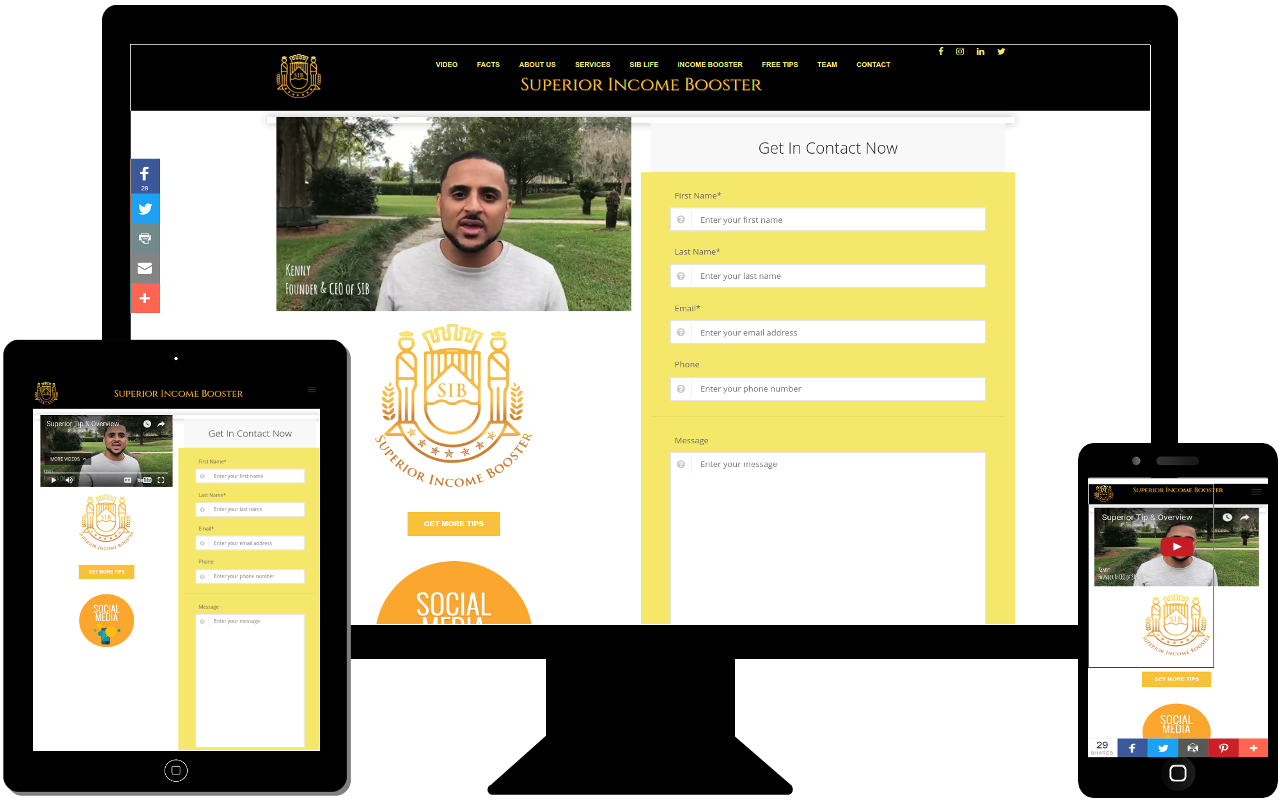
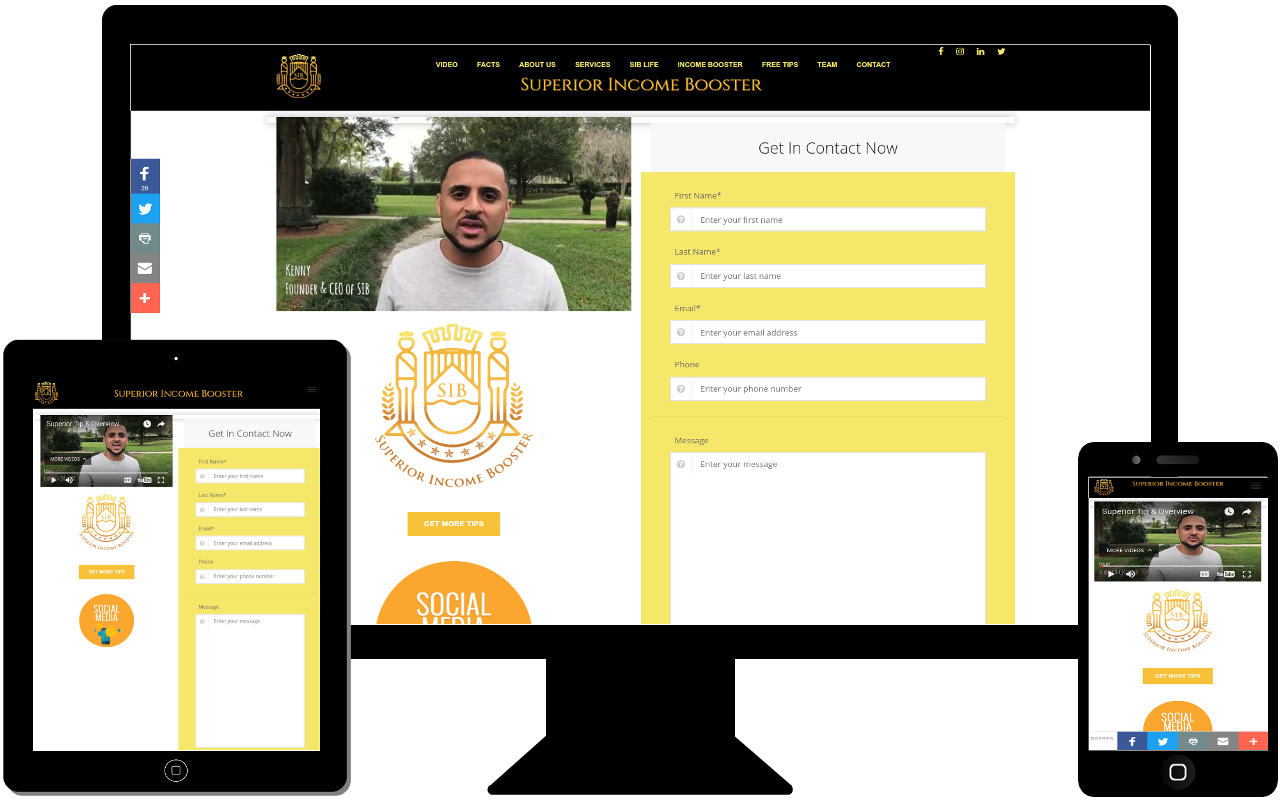
SIB Image Edit

Changed region(s): [[0.8438, 0.5938, 1.0, 1.0]]

diff --git a/README.md b/README.md
@@ -1,13 +1,17 @@
 # [Dev.iBuildWeb.Solutions](http://dev.ibuildweb.solutions/)
+* Portfolio Web App for Orlando Morales
+* Version 1.2
 
 ## Workflow
 
 * Clone the repo: `git clone https://Orlandohmor@bitbucket.org/ibuildwebs/plain.git`
+* Install dependencies.
 * Checkout, branch, and create pull requests for merge in small modular intervals
 * Use tags for Version Control following the major.minor.patch design
 * Utilize Gulp task runners to automate workflow
 
 ## Release History
+    - 1.2.1 - 03/16/2017 - SIB image edit
     - 1.2.0 - 03/15/2017 - Added Superior Income Booster
     - 1.1.0 - 03/14/2017 - Added Mathis & Sons.
     - 1.0.1 - 03/13/2017 - Split AIG and Vaca Exclusive.
